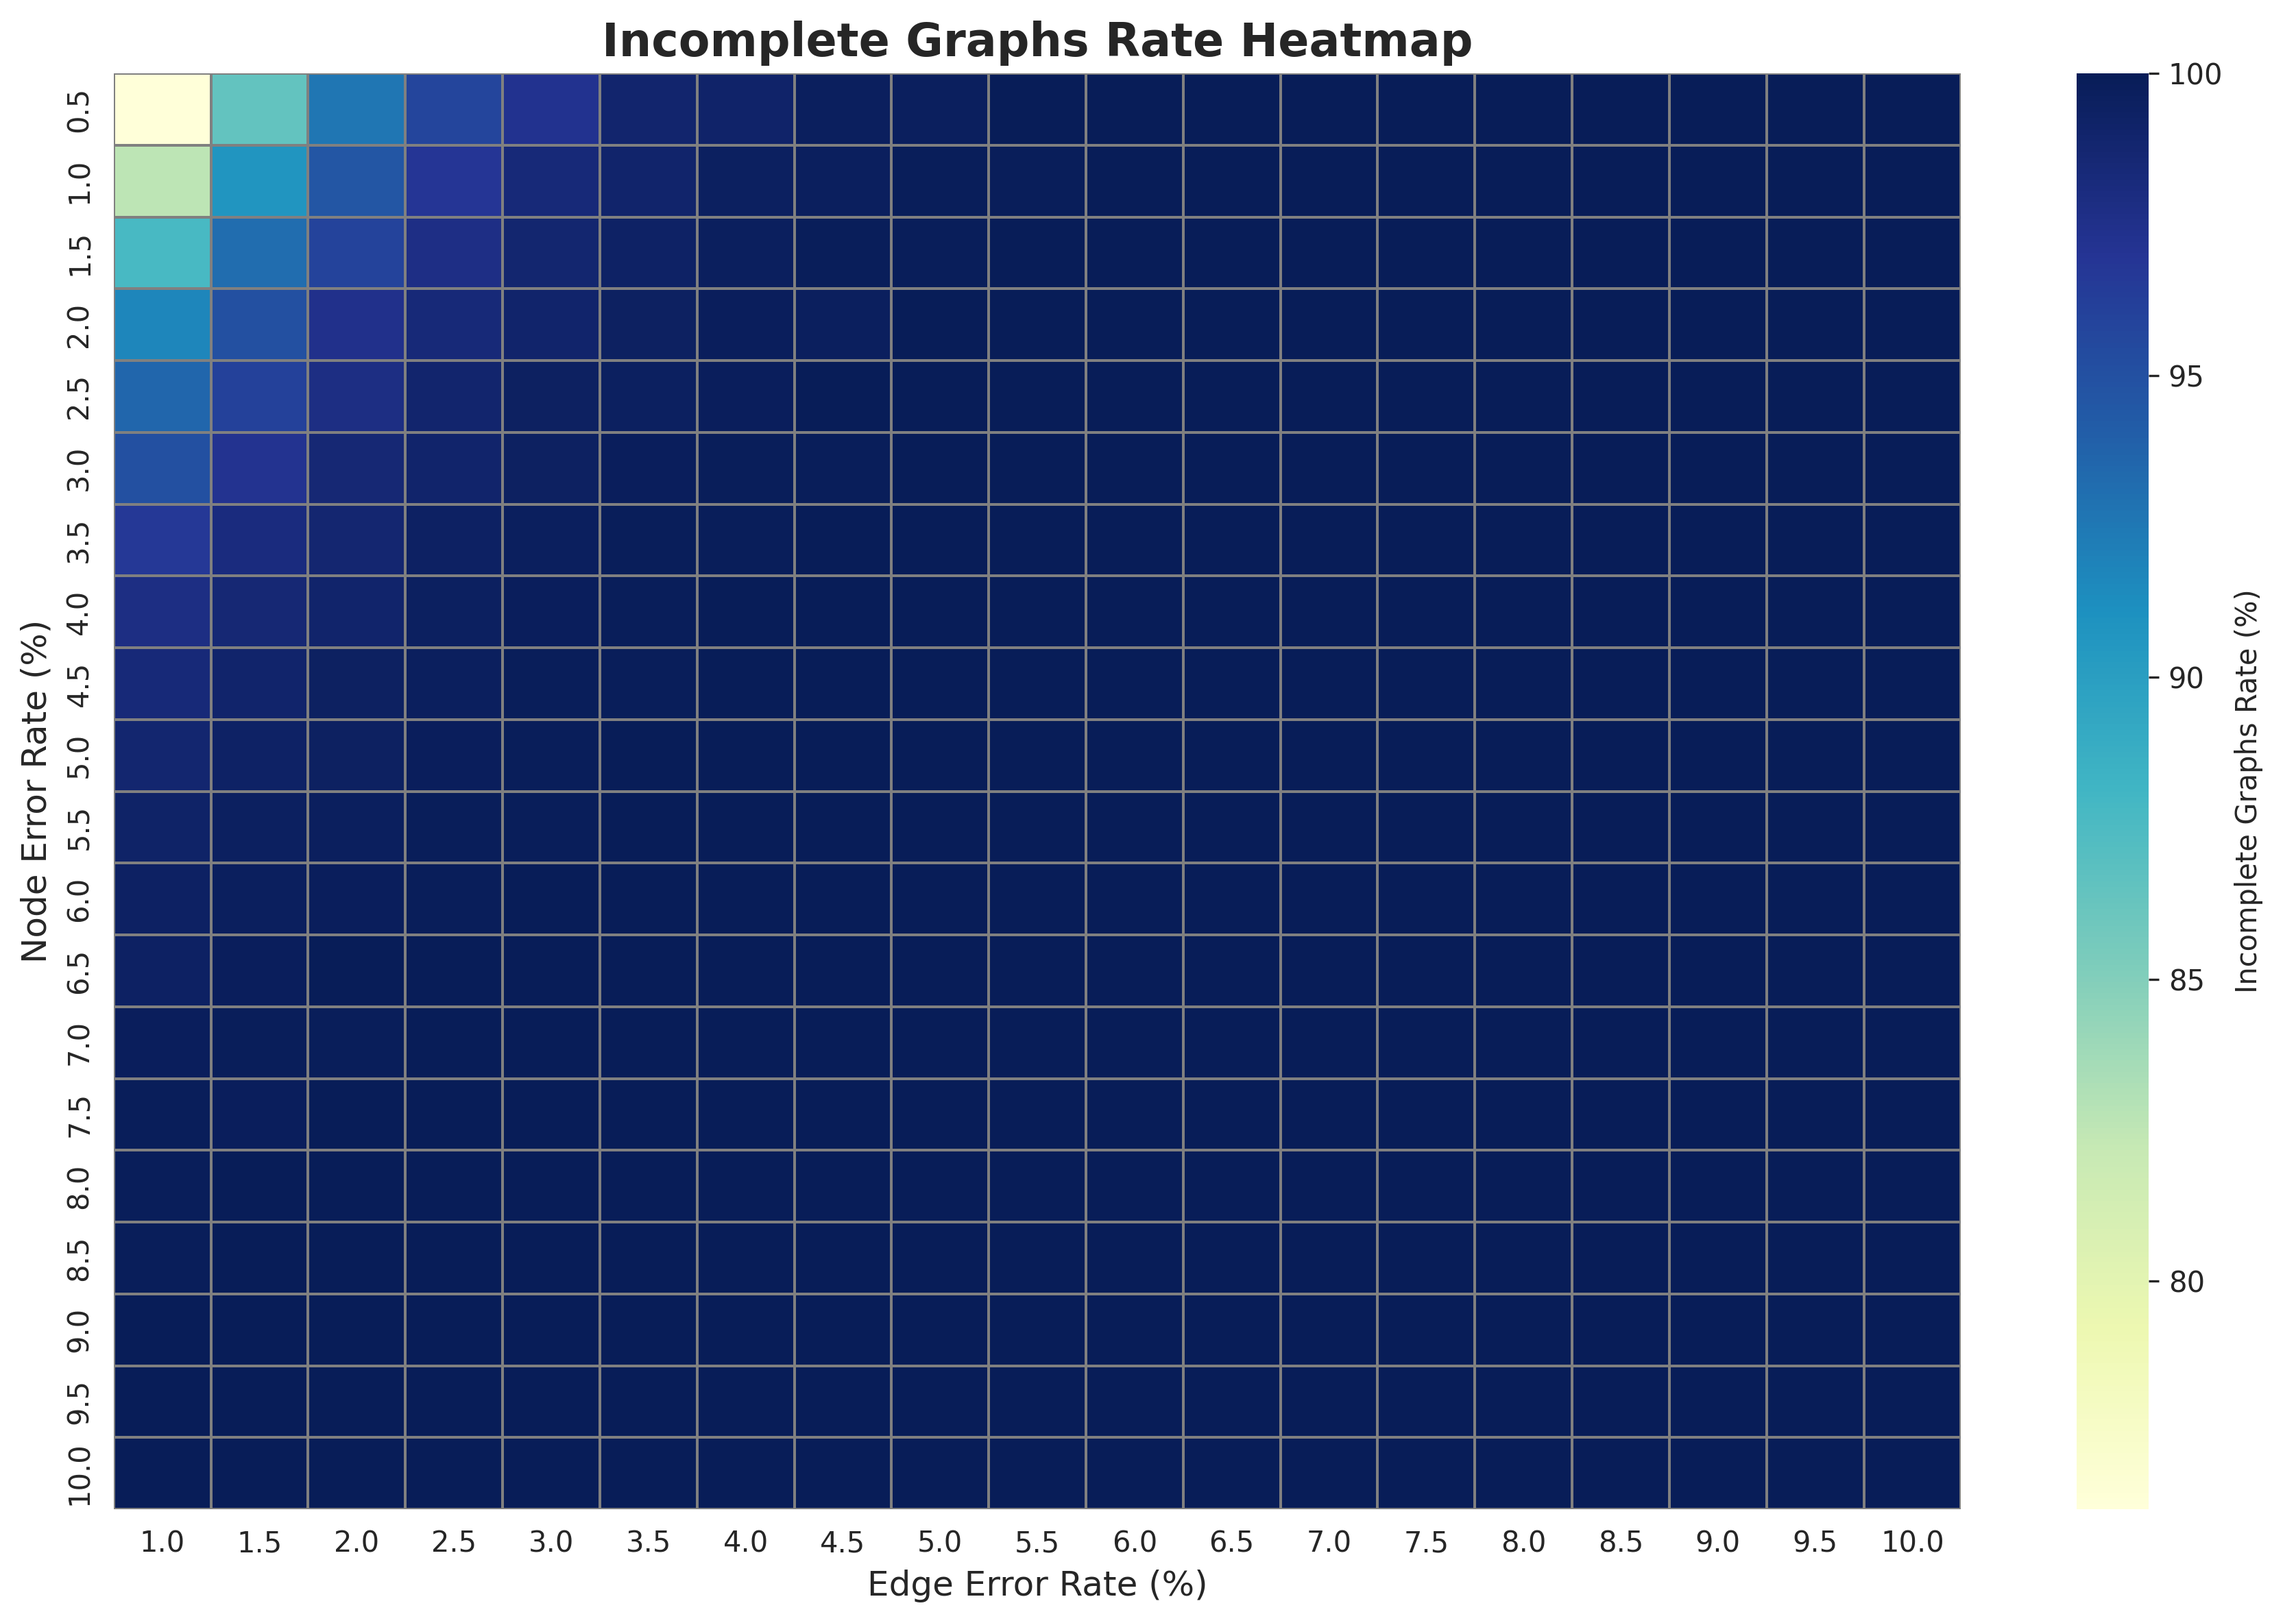
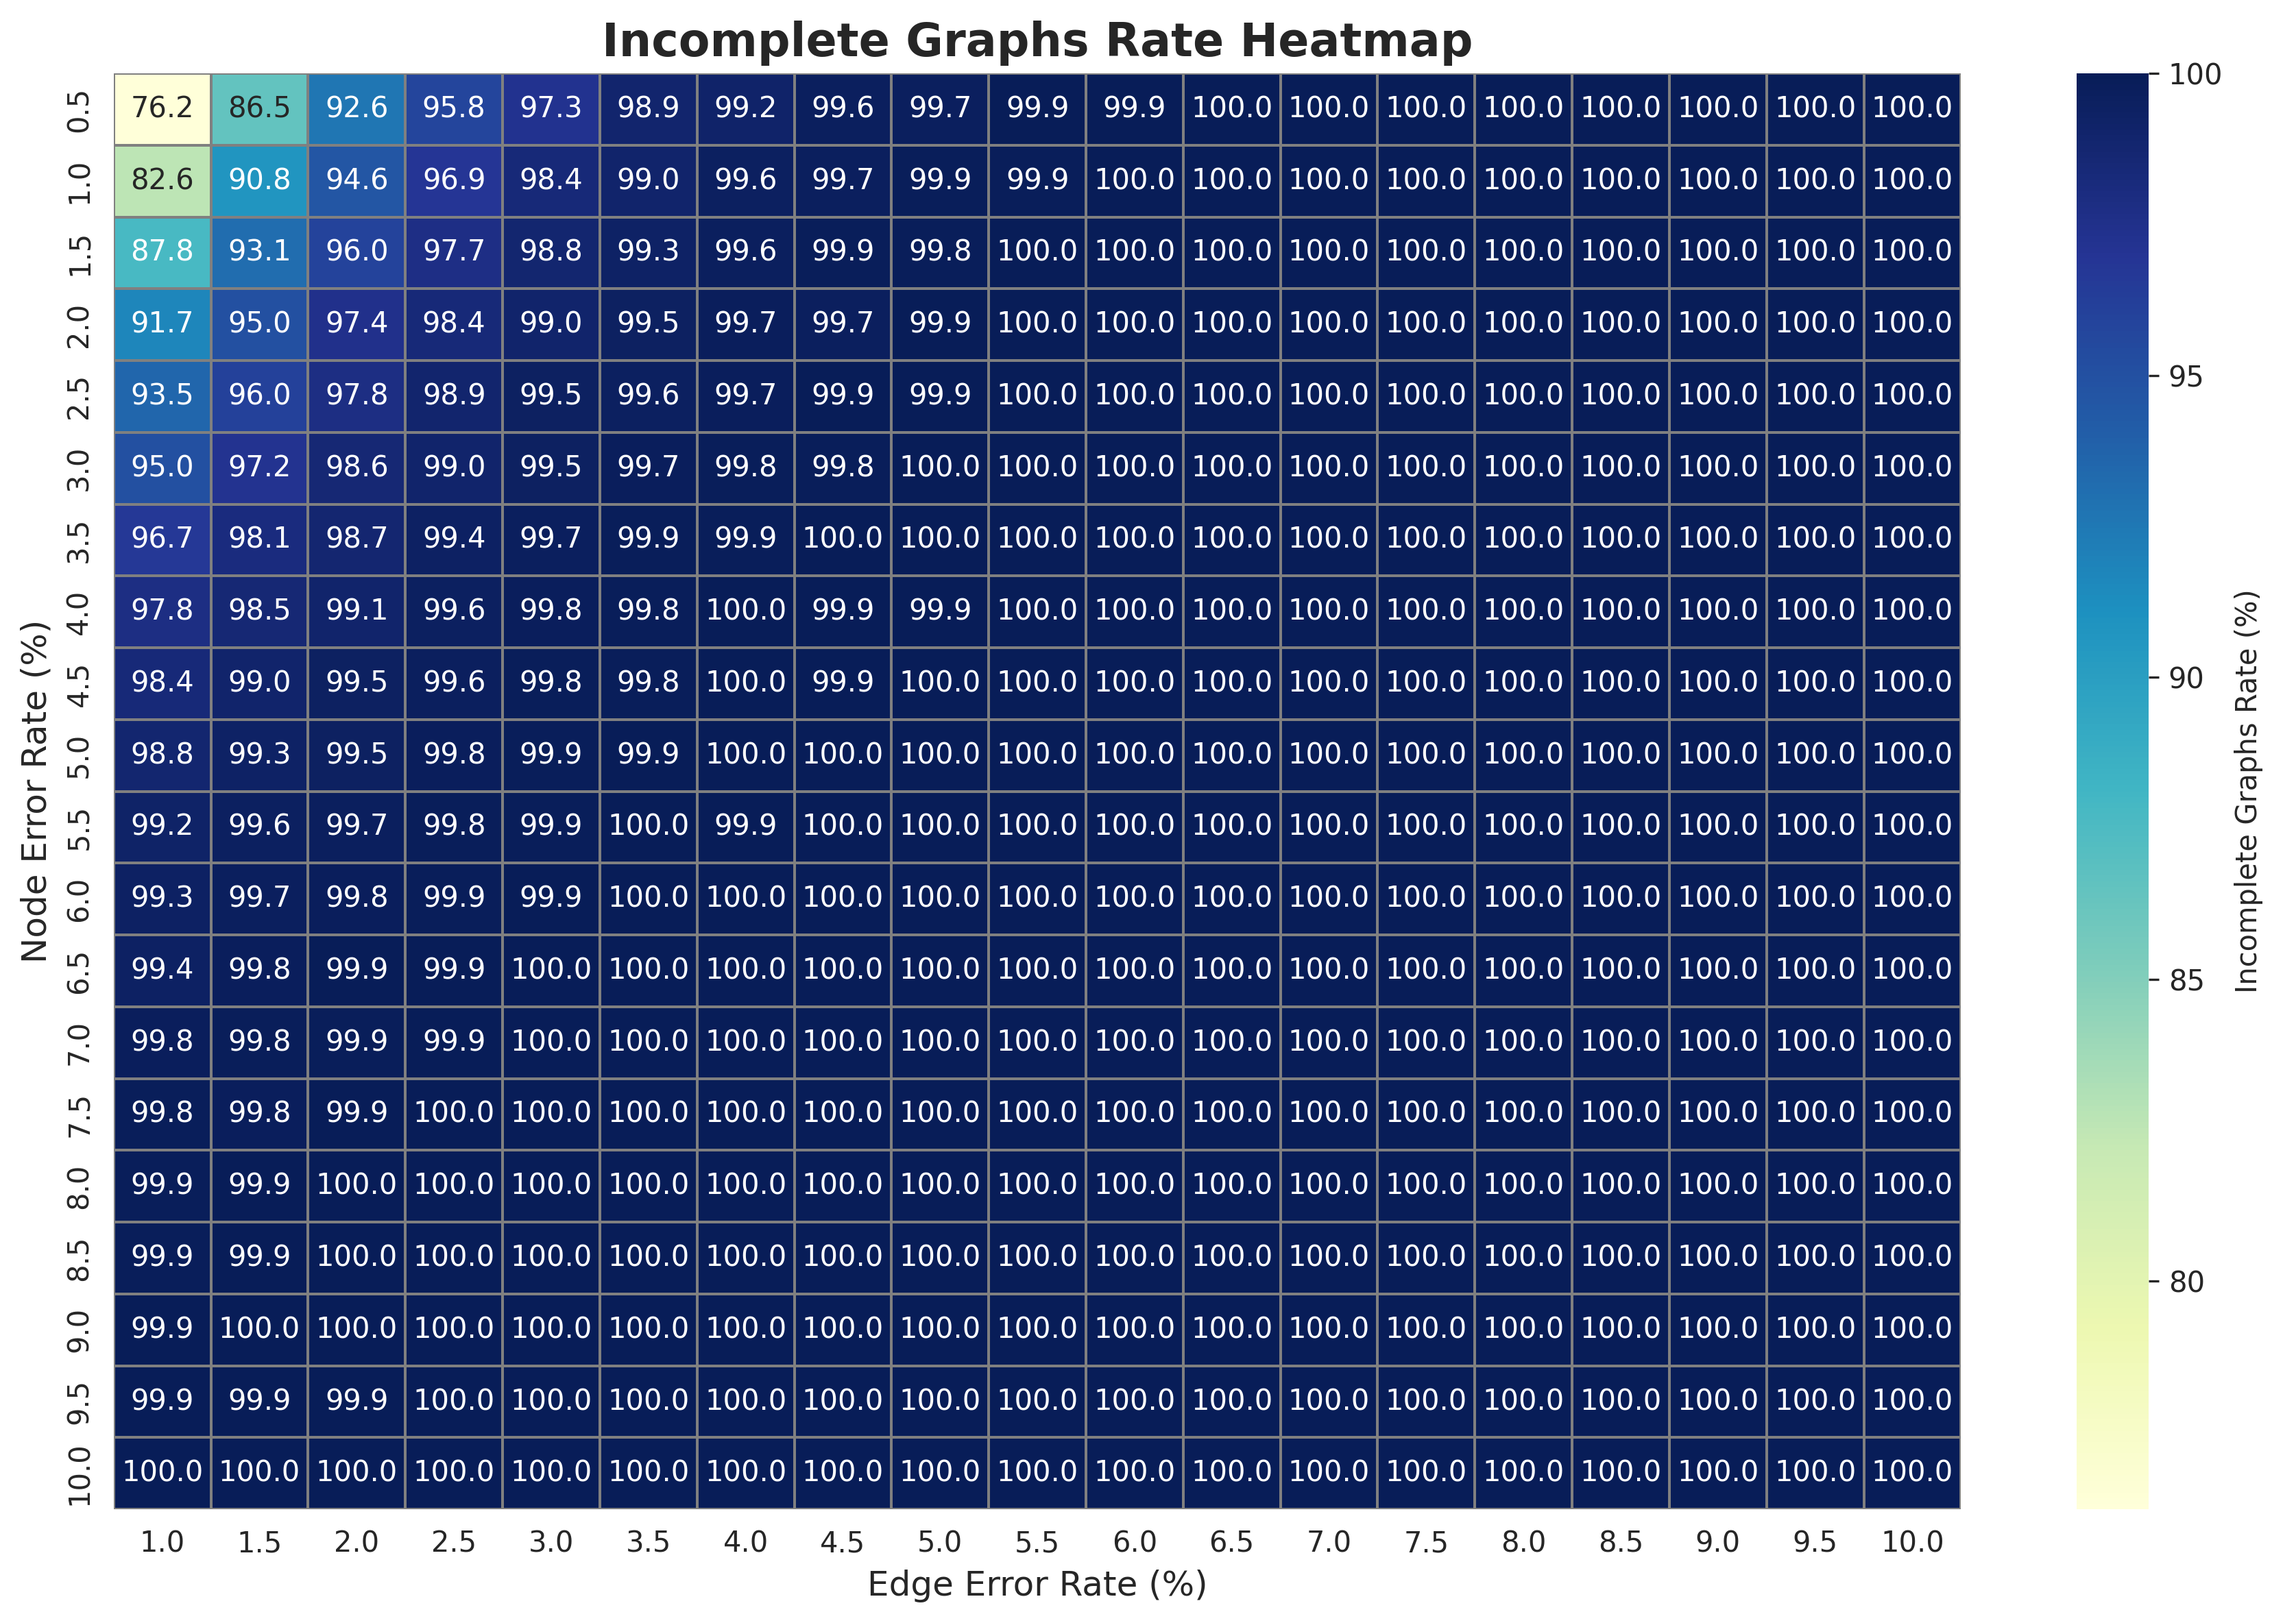
update

diff --git a/scripts/plot_heatmap.py b/scripts/plot_heatmap.py
@@ -58,8 +58,8 @@ def plot_heatmap(csv_path: str, output_path: str = None):
     # 绘制 sub_graphs_rate 热力图
     plt.figure(figsize=(12, 8))
     sns.heatmap(pivot_sub, 
-                annot=False,  # 不显示数值，因为数据点较多
-                fmt='.2f',
+                annot=True,  # 不显示数值，因为数据点较多
+                fmt='.1f',
                 cmap='YlOrRd',
                 cbar_kws={'label': 'Sub Graphs Rate (%)'},
                 linewidths=0.5,
@@ -78,8 +78,8 @@ def plot_heatmap(csv_path: str, output_path: str = None):
     # 绘制 incomplete_graphs_rate 热力图
     plt.figure(figsize=(12, 8))
     sns.heatmap(pivot_incomplete, 
-                annot=False,  # 不显示数值，因为数据点较多
-                fmt='.2f',
+                annot=True,  # 不显示数值，因为数据点较多
+                fmt='.1f',
                 cmap='YlGnBu',
                 cbar_kws={'label': 'Incomplete Graphs Rate (%)'},
                 linewidths=0.5,
